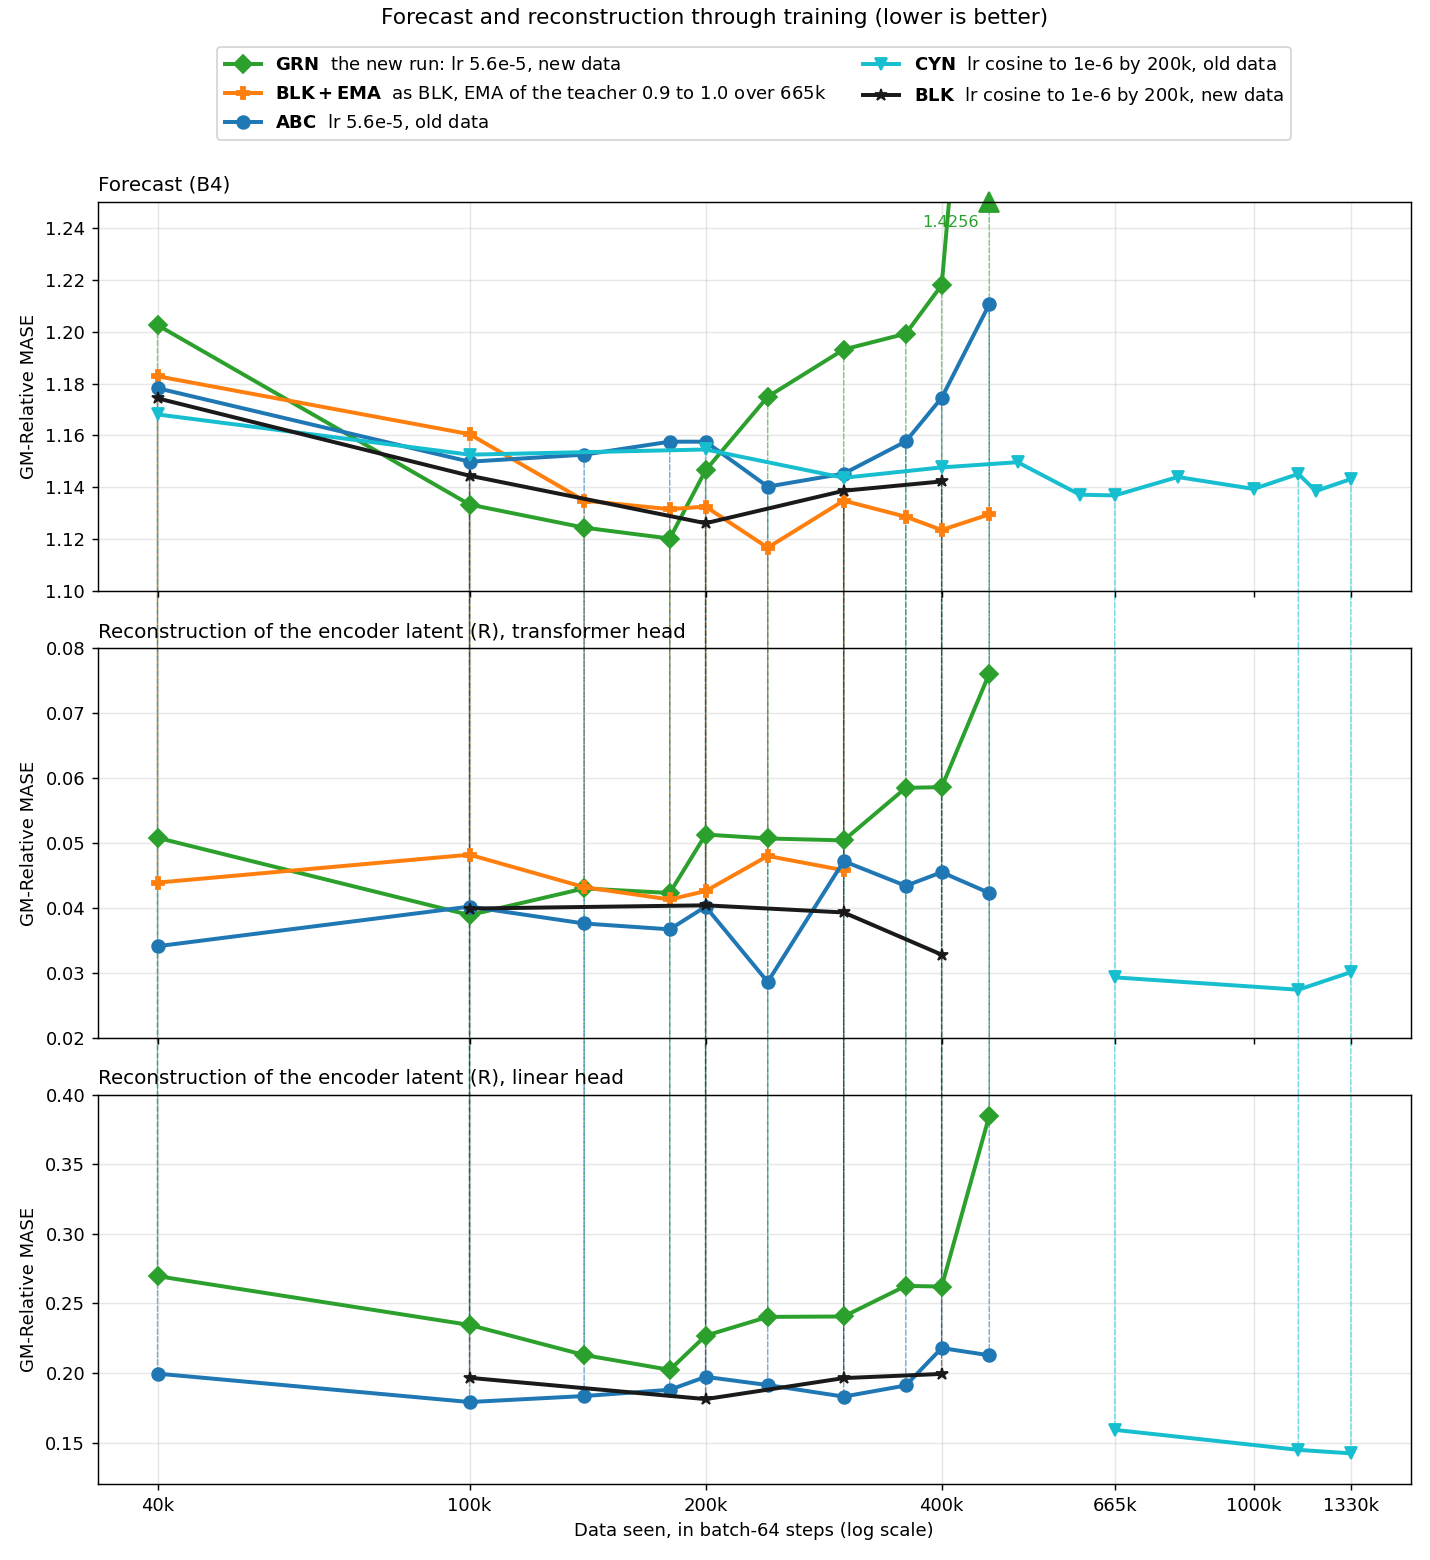
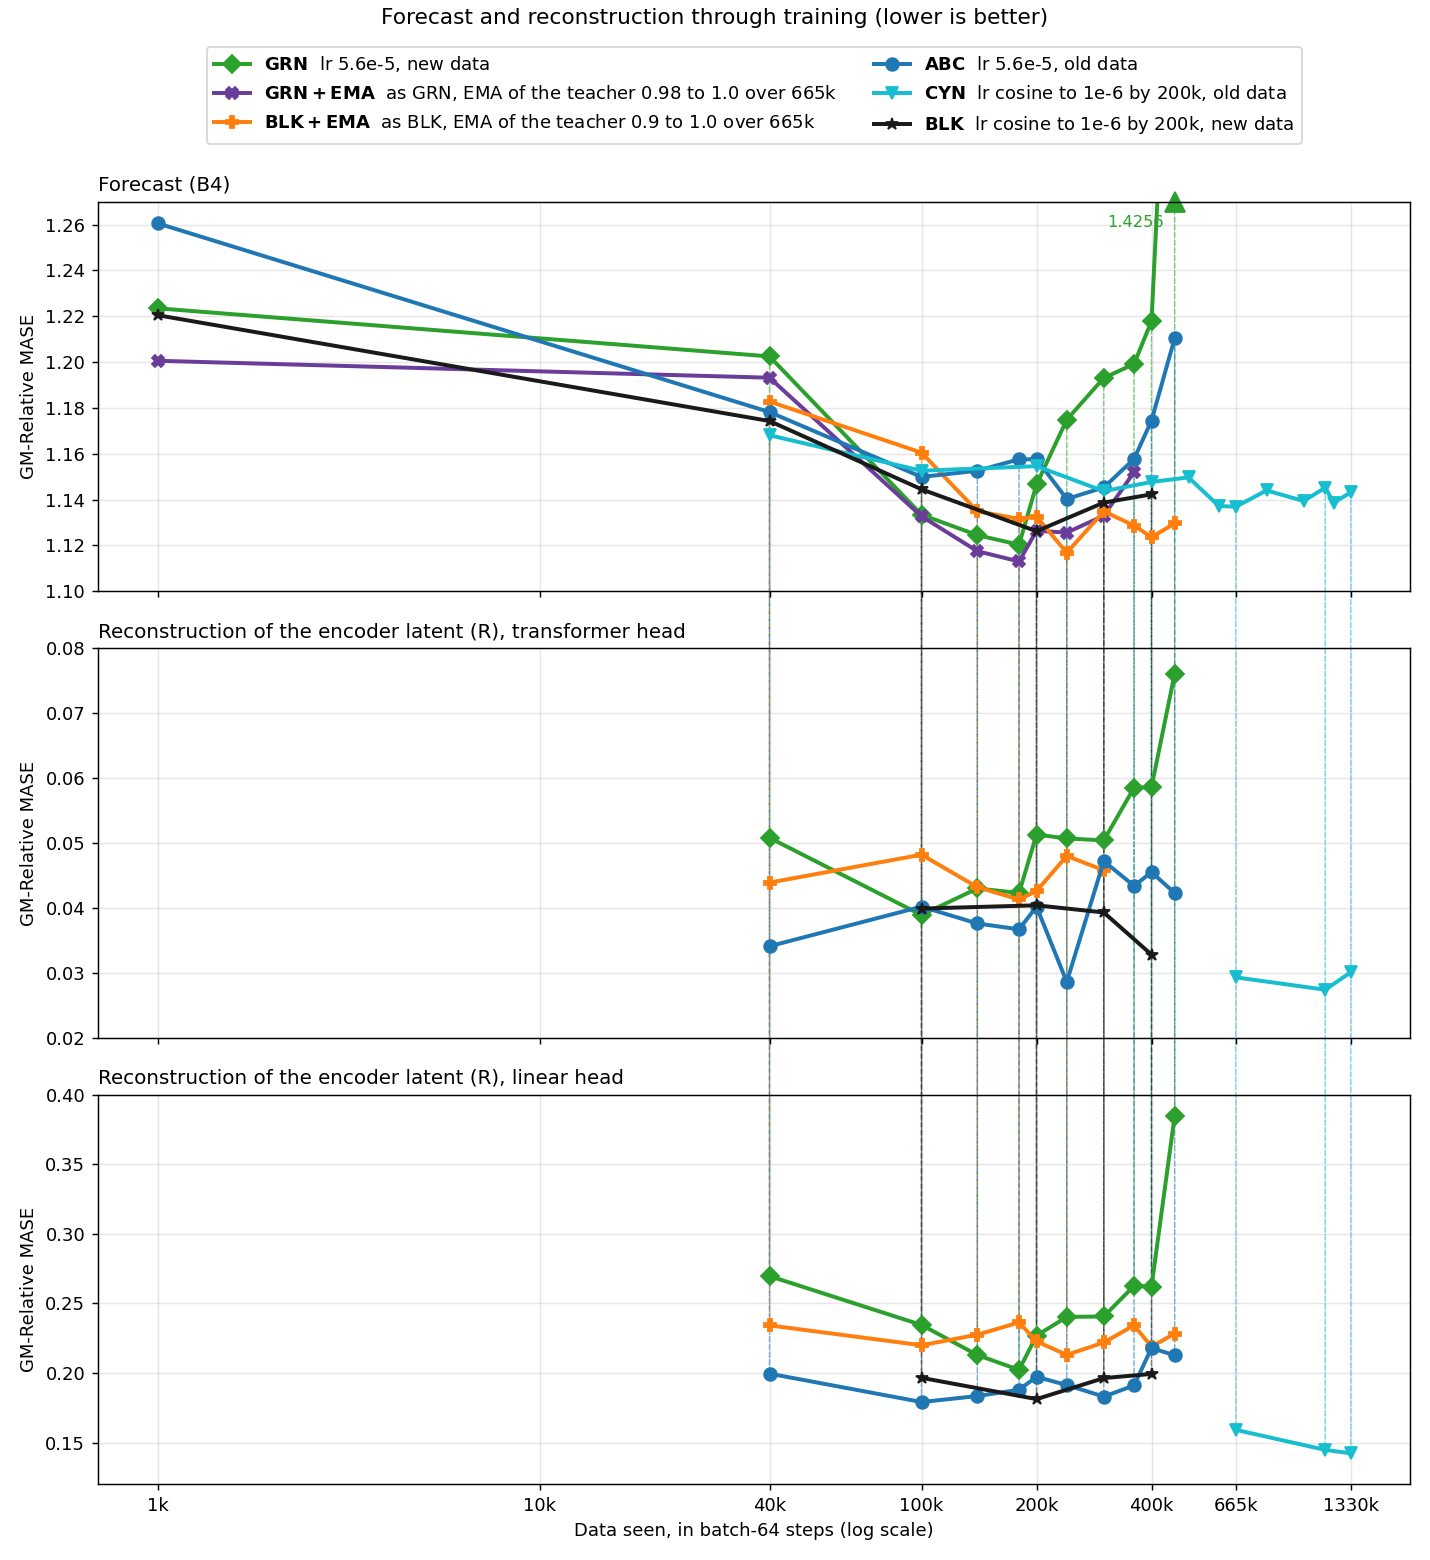
results(freq_family): GRN+EMA (EMA of the teacher 0.98 to 1.0) forecast to 360k, the forecast at 1k steps of four runs, and the linear R of BLK+EMA at the 10 stops, in the figure

diff --git a/reports/2026-10-10_frequency_family_head/scripts/plot_green_scores.py b/reports/2026-10-10_frequency_family_head/scripts/plot_green_scores.py
@@ -1,6 +1,6 @@
 """The forecast and the reconstruction of the encoder latent through training,
-for the new run (GRN, green) next to ABC, CYN and BLK. Writes
-plots/forecast_and_reconstruction.png: three panels on one x axis.
+for the runs of this report (GRN, BLK+EMA, GRN+EMA) next to ABC, CYN and BLK.
+Writes plots/forecast_and_reconstruction.png: three panels on one x axis.
 
   1. Forecast (B4): the forecaster rolls the latents forward, and the
      standard reconstruction head decodes each rolled latent.
@@ -12,10 +12,12 @@ A dashed vertical line joins the scores of one checkpoint in the panels.
 Reads the scores of ABC, CYN and BLK of #412 and #425
 (reports/2026-09-06_moirai_small_size/results/gm_trajectories.tsv,
 reports/2026-10-06_encoder_reconstruction/results/*.tsv), and the scores of
-the runs of this report (GRN: arm abc_gift, BLK+EMA: arm blk_ema):
-results/scores.tsv (B4, arm `control`), and results/recon_green_*.tsv and
-results/recon_blk_ema_*.tsv (R, with the columns arm, stop in thousands of
-steps, GM-Relative MASE).
+the runs of this report (GRN: arm abc_gift, BLK+EMA: arm blk_ema, GRN+EMA: arm
+grn_ema098): results/scores.tsv (B4, arm `control`), and results/recon_*.tsv
+(R, with the columns arm, stop in thousands of steps, GM-Relative MASE).
+The point at 1k steps of GRN, BLK and ABC comes from results/scores.tsv
+(runs abc_gift, blk and abc at stop_k 1): the first 1,000 steps of each run
+again, with its flags and its seed.
 
 Usage: python3 plot_green_scores.py
 """
@@ -39,12 +41,18 @@ GREEN = "abc_gift"
 GREEN_COLOUR = "#2ca02c"  # the colour of the new run in plot_scores.py
 BLK_EMA = "blk_ema"
 BLK_EMA_COLOUR = "#ff7f0e"  # no other run of this figure has this colour
+GRN_EMA = "grn_ema098"
+GRN_EMA_COLOUR = "#6a3d9a"  # its colour in plot_ema_plan.py
 # The runs of this report: their forecast comes from results/scores.tsv.
-NEW_RUNS = [GREEN, BLK_EMA]
+NEW_RUNS = [GREEN, BLK_EMA, GRN_EMA]
+# Older runs with a forecast at 1k steps in results/scores.tsv: arm -> run.
+FIRST_STEPS = {"cf419_cos200k": "blk", P + "_lr10x": "abc"}
 OUT = STUDY / "plots" / "forecast_and_reconstruction.png"
 # (arm, legend label, colour, marker): the runs of the figure.
 RUNS = [
-    (GREEN, r"$\mathbf{GRN}$  the new run: lr 5.6e-5, new data", GREEN_COLOUR, "D"),
+    (GREEN, r"$\mathbf{GRN}$  lr 5.6e-5, new data", GREEN_COLOUR, "D"),
+    (GRN_EMA, r"$\mathbf{GRN+EMA}$  as GRN, EMA of the teacher 0.98 to 1.0 over 665k",
+     GRN_EMA_COLOUR, "X"),
     (BLK_EMA, r"$\mathbf{BLK+EMA}$  as BLK, EMA of the teacher 0.9 to 1.0 over 665k",
      BLK_EMA_COLOUR, "P"),
     (P + "_lr10x", tagged(P + "_lr10x", "lr 5.6e-5, old data"), colour(P + "_lr10x"), "o"),
@@ -57,16 +65,18 @@ OURS = STUDY / "results"
 # panel title, y range, the score tables, and whether the forecast of the
 # runs of this report comes from results/scores.tsv
 PANELS = [
-    ("Forecast (B4)", (1.10, 1.25),
+    ("Forecast (B4)", (1.10, 1.27),
      [MOIRAI / "results" / "gm_trajectories.tsv", RECON / "forecast_425.tsv"], True),
     ("Reconstruction of the encoder latent (R), transformer head", (0.02, 0.08),
      [RECON / "recon_trajectories.tsv", OURS / "recon_green_trajectories.tsv",
-      OURS / "recon_blk_ema_trajectories.tsv"], False),
+      OURS / "recon_blk_ema_trajectories.tsv", OURS / "recon_grn_ema098_trajectories.tsv"],
+     False),
     ("Reconstruction of the encoder latent (R), linear head", (0.12, 0.40),
      [RECON / "recon_lin_trajectories.tsv", OURS / "recon_green_lin_trajectories.tsv",
-      OURS / "recon_blk_ema_lin_trajectories.tsv"], False),
+      OURS / "recon_blk_ema_lin_trajectories.tsv",
+      OURS / "recon_grn_ema098_lin_trajectories.tsv"], False),
 ]
-TICKS_K = [40, 100, 200, 400, 665, 1000, 1330]
+TICKS_K = [1, 10, 40, 100, 200, 400, 665, 1330]
 
 
 def read_table(paths):
@@ -80,13 +90,14 @@ def read_table(paths):
     return points
 
 
-def new_run_forecast(run):
+def new_run_forecast(run, stops=None):
     """``{stop k: score}``: the B4 score of the control head of each wave of
-    ``run``."""
+    ``run`` (only the stops in ``stops`` when given)."""
     with open(STUDY / "results" / "scores.tsv") as fh:
         return {int(r["stop_k"]): float(r["gm_rel_mase"])
                 for r in csv.DictReader(fh, delimiter="\t")
-                if r["run"] == run and r["arm"] == "control"}
+                if r["run"] == run and r["arm"] == "control"
+                and (stops is None or int(r["stop_k"]) in stops)}
 
 
 def panel_points(tables, forecast):
@@ -94,6 +105,8 @@ def panel_points(tables, forecast):
     if forecast:
         for run in NEW_RUNS:
             points[run] = new_run_forecast(run)
+        for arm, run in FIRST_STEPS.items():
+            points.setdefault(arm, {}).update(new_run_forecast(run, stops={1}))
     return points
 
 
